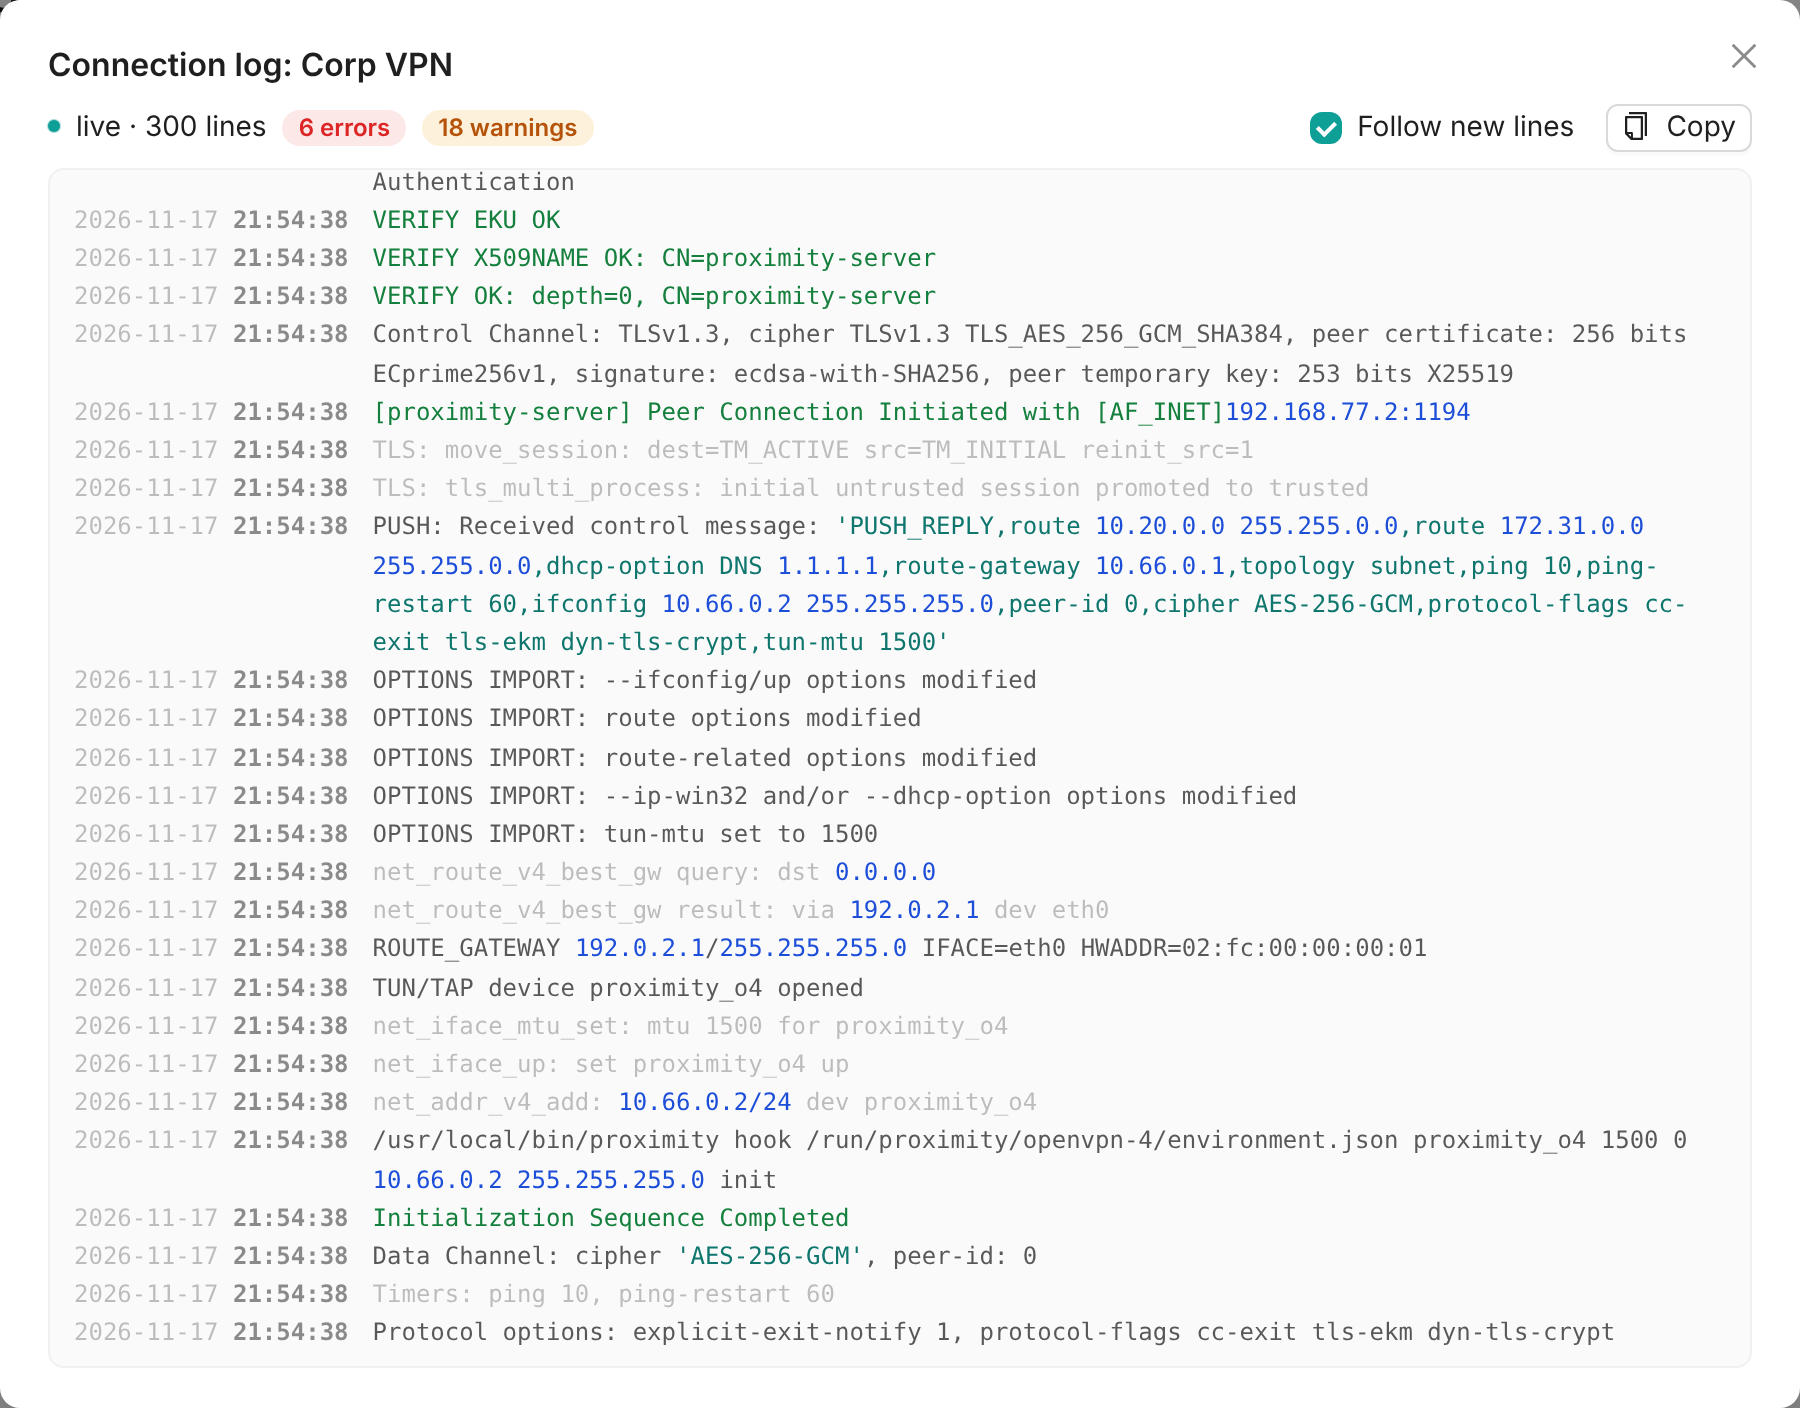
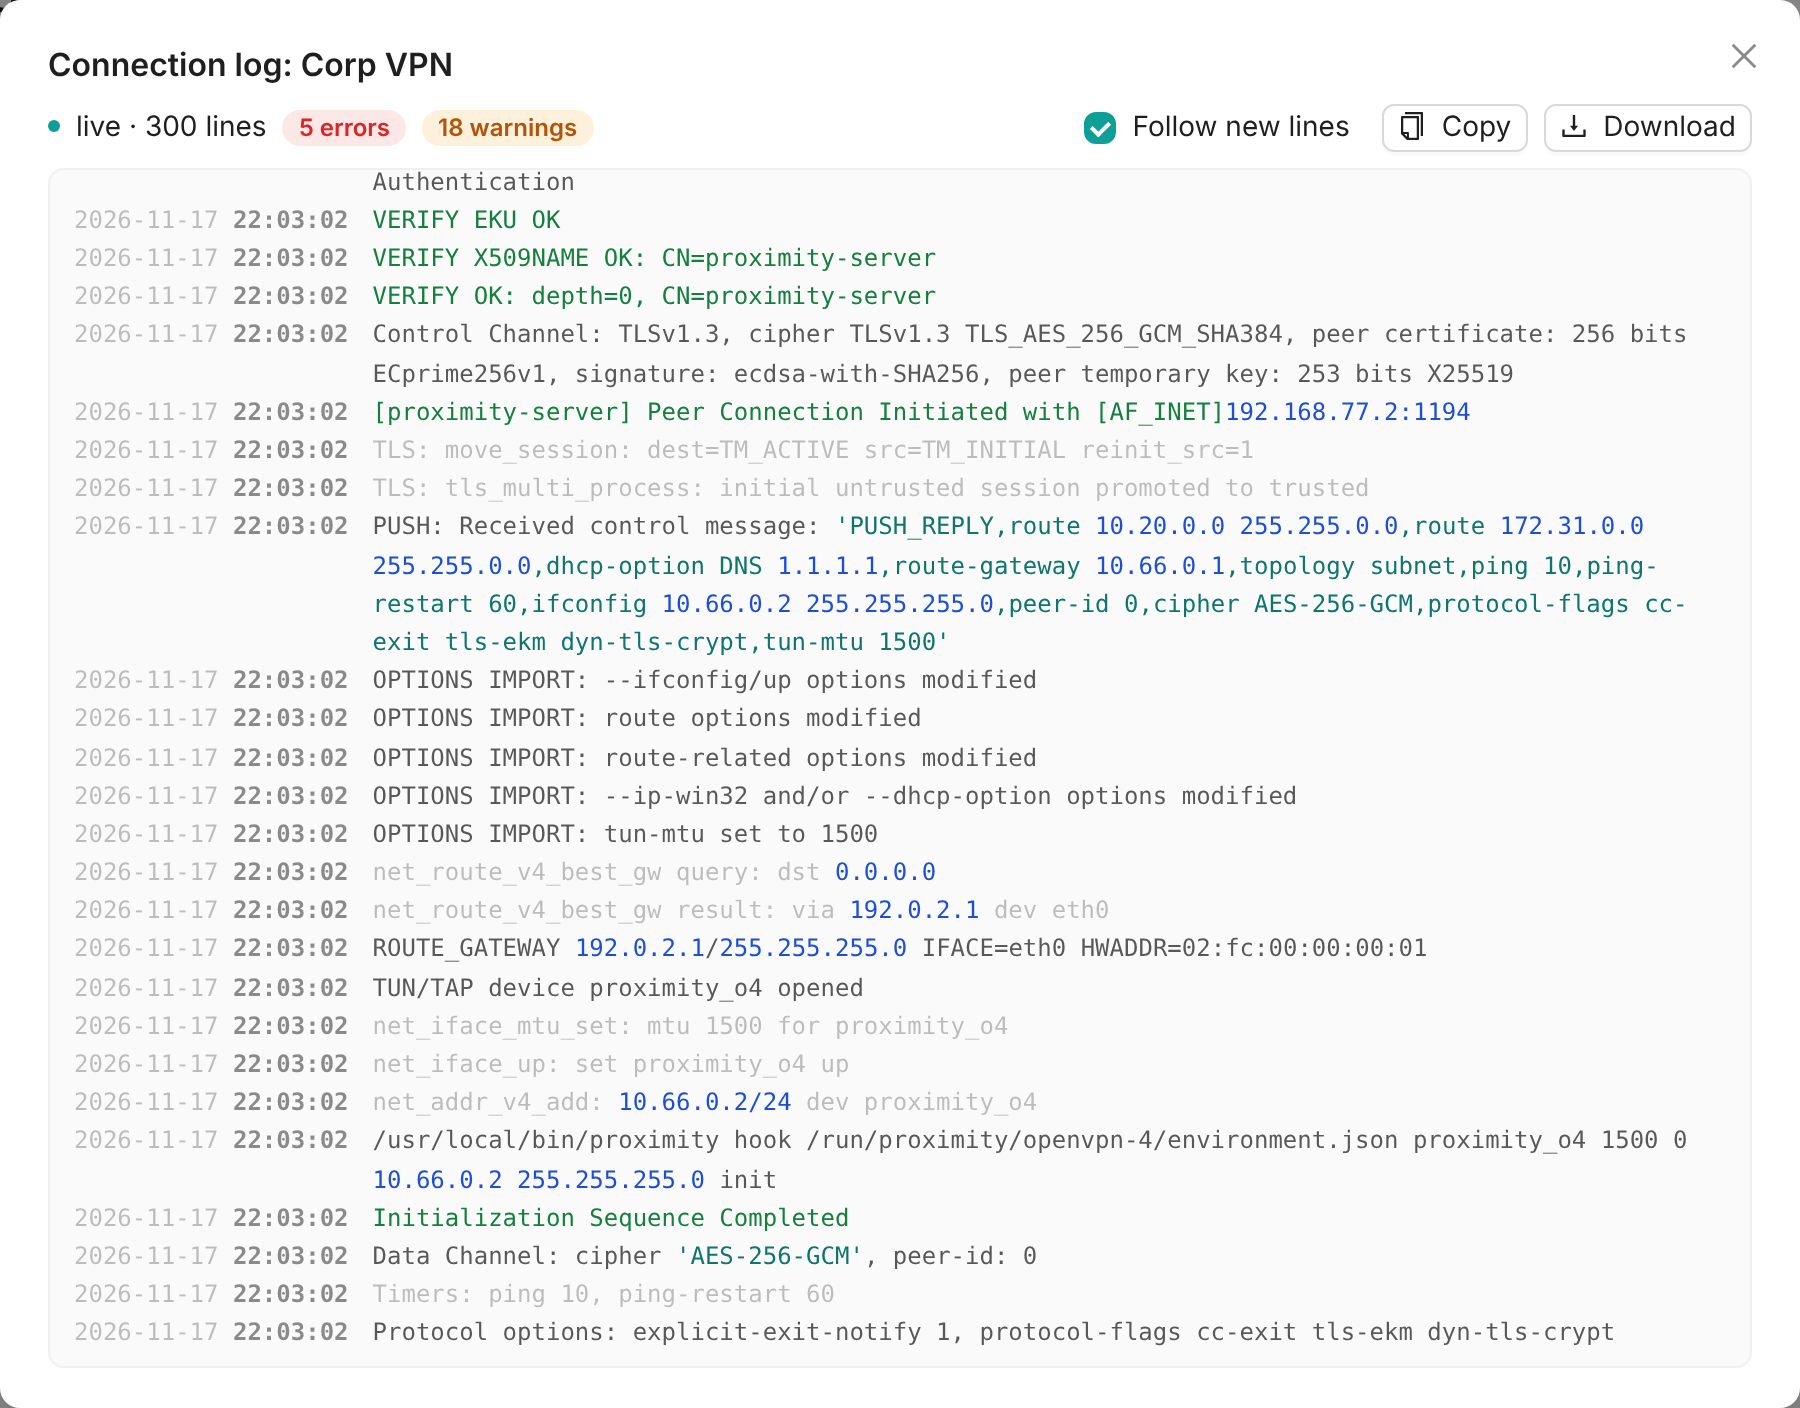
Add a Download button to the log viewer
Save the outbound or inbound log as a text file named
<outbound|inbound>-<ID>-<UTC date>-<time>.log. Document the button
and refresh the log screenshot.

diff --git a/web/src/components/LogView.vue b/web/src/components/LogView.vue
@@ -7,6 +7,9 @@
       <span class="spacer" />
       <a-checkbox v-model:checked="follow">Follow new lines</a-checkbox>
       <a-button size="small" @click="copy"><template #icon><CopyOutlined /></template>Copy</a-button>
+      <a-tooltip title="Save the log as a text file">
+        <a-button size="small" :disabled="!lines.length" @click="download"><template #icon><DownloadOutlined /></template>Download</a-button>
+      </a-tooltip>
     </div>
     <div ref="view" :class="['mono', 'log-view', 'log-body', { 'log-dark': dark }]" @scroll="scrolled">
       <div v-if="!lines.length" class="log-empty">No messages yet</div>
@@ -23,7 +26,7 @@
 <script setup>
 import { computed, nextTick, onMounted, onUnmounted, ref } from 'vue'
 import { message, theme } from 'ant-design-vue'
-import { CopyOutlined } from '@ant-design/icons-vue'
+import { CopyOutlined, DownloadOutlined } from '@ant-design/icons-vue'
 import { api } from '../api'
 import { copyText } from '../clipboard'
 import { parseLogLine } from './logSyntax'
@@ -31,7 +34,8 @@ import { useDarkTheme } from './ruleTheme'
 
 const props = defineProps({
   path: { type: String, required: true },
-  interval: { type: Number, default: 1500 }
+  interval: { type: Number, default: 1500 },
+  fileName: { type: String, default: 'proximity' }
 })
 const lines = ref([])
 const follow = ref(true)
@@ -75,6 +79,16 @@ async function copy() {
   } catch (error) {
     message.error('Clipboard is not available')
   }
+}
+
+function download() {
+  const stamp = new Date().toISOString().replace(/\.\d+Z$/, '').replace(/[-:]/g, '').replace('T', '-')
+  const name = `${props.fileName.replace(/[^\p{L}\p{N}._-]+/gu, '-')}-${stamp}.log`
+  const link = document.createElement('a')
+  link.href = URL.createObjectURL(new Blob([lines.value.join('\n') + '\n'], { type: 'text/plain' }))
+  link.download = name
+  link.click()
+  setTimeout(() => URL.revokeObjectURL(link.href), 1000)
 }
 
 onMounted(() => {

diff --git a/web/src/views/Inbounds.vue b/web/src/views/Inbounds.vue
@@ -86,7 +86,7 @@
     </a-table>
     <InboundDialog v-model:open="visible" :inbound="current" :kind="kind" :outbounds="outbounds" :ports="ports" @saved="load" />
     <a-modal v-model:open="logVisible" :title="`Inbound log: ${logTitle}`" width="900px" :footer="null" destroy-on-close>
-      <LogView :path="`/api/inbounds/${id(logTitle)}/log`" />
+      <LogView :path="`/api/inbounds/${id(logTitle)}/log`" :file-name="`inbound-${logTitle}`" />
     </a-modal>
   </div>
 </template>

diff --git a/web/src/views/Outbounds.vue b/web/src/views/Outbounds.vue
@@ -65,7 +65,7 @@
     </a-table>
     <OutboundDialog v-model:open="visible" :outbound="current" :kind="kind" @saved="load" />
     <a-modal v-model:open="logVisible" :title="`Connection log: ${logTitle}`" width="900px" :footer="null" destroy-on-close>
-      <LogView :path="`/api/outbounds/${id(logTitle)}/log`" />
+      <LogView :path="`/api/outbounds/${id(logTitle)}/log`" :file-name="`outbound-${logTitle}`" />
     </a-modal>
   </div>
 </template>

diff --git a/docs/user-guide.md b/docs/user-guide.md
@@ -255,7 +255,8 @@ OpenVPN is checked by pinging the VPN gateway through the tunnel.
 The live log of an outbound (last 300 lines): process output, answered prompts, applied
 routes, check results, starts and stops. It is saved in `logs/` of the settings folder and
 survives container restarts. It refreshes every 1.5 s; **Follow new lines** keeps it scrolled to
-the bottom, **Copy** copies the whole log.
+the bottom, **Copy** copies the whole log, **Download** saves it as
+`outbound-<ID>-<date>-<time>.log` (`inbound-…` for inbounds, time in UTC).
 
 Lines are highlighted (the same in the inbound log):
 
